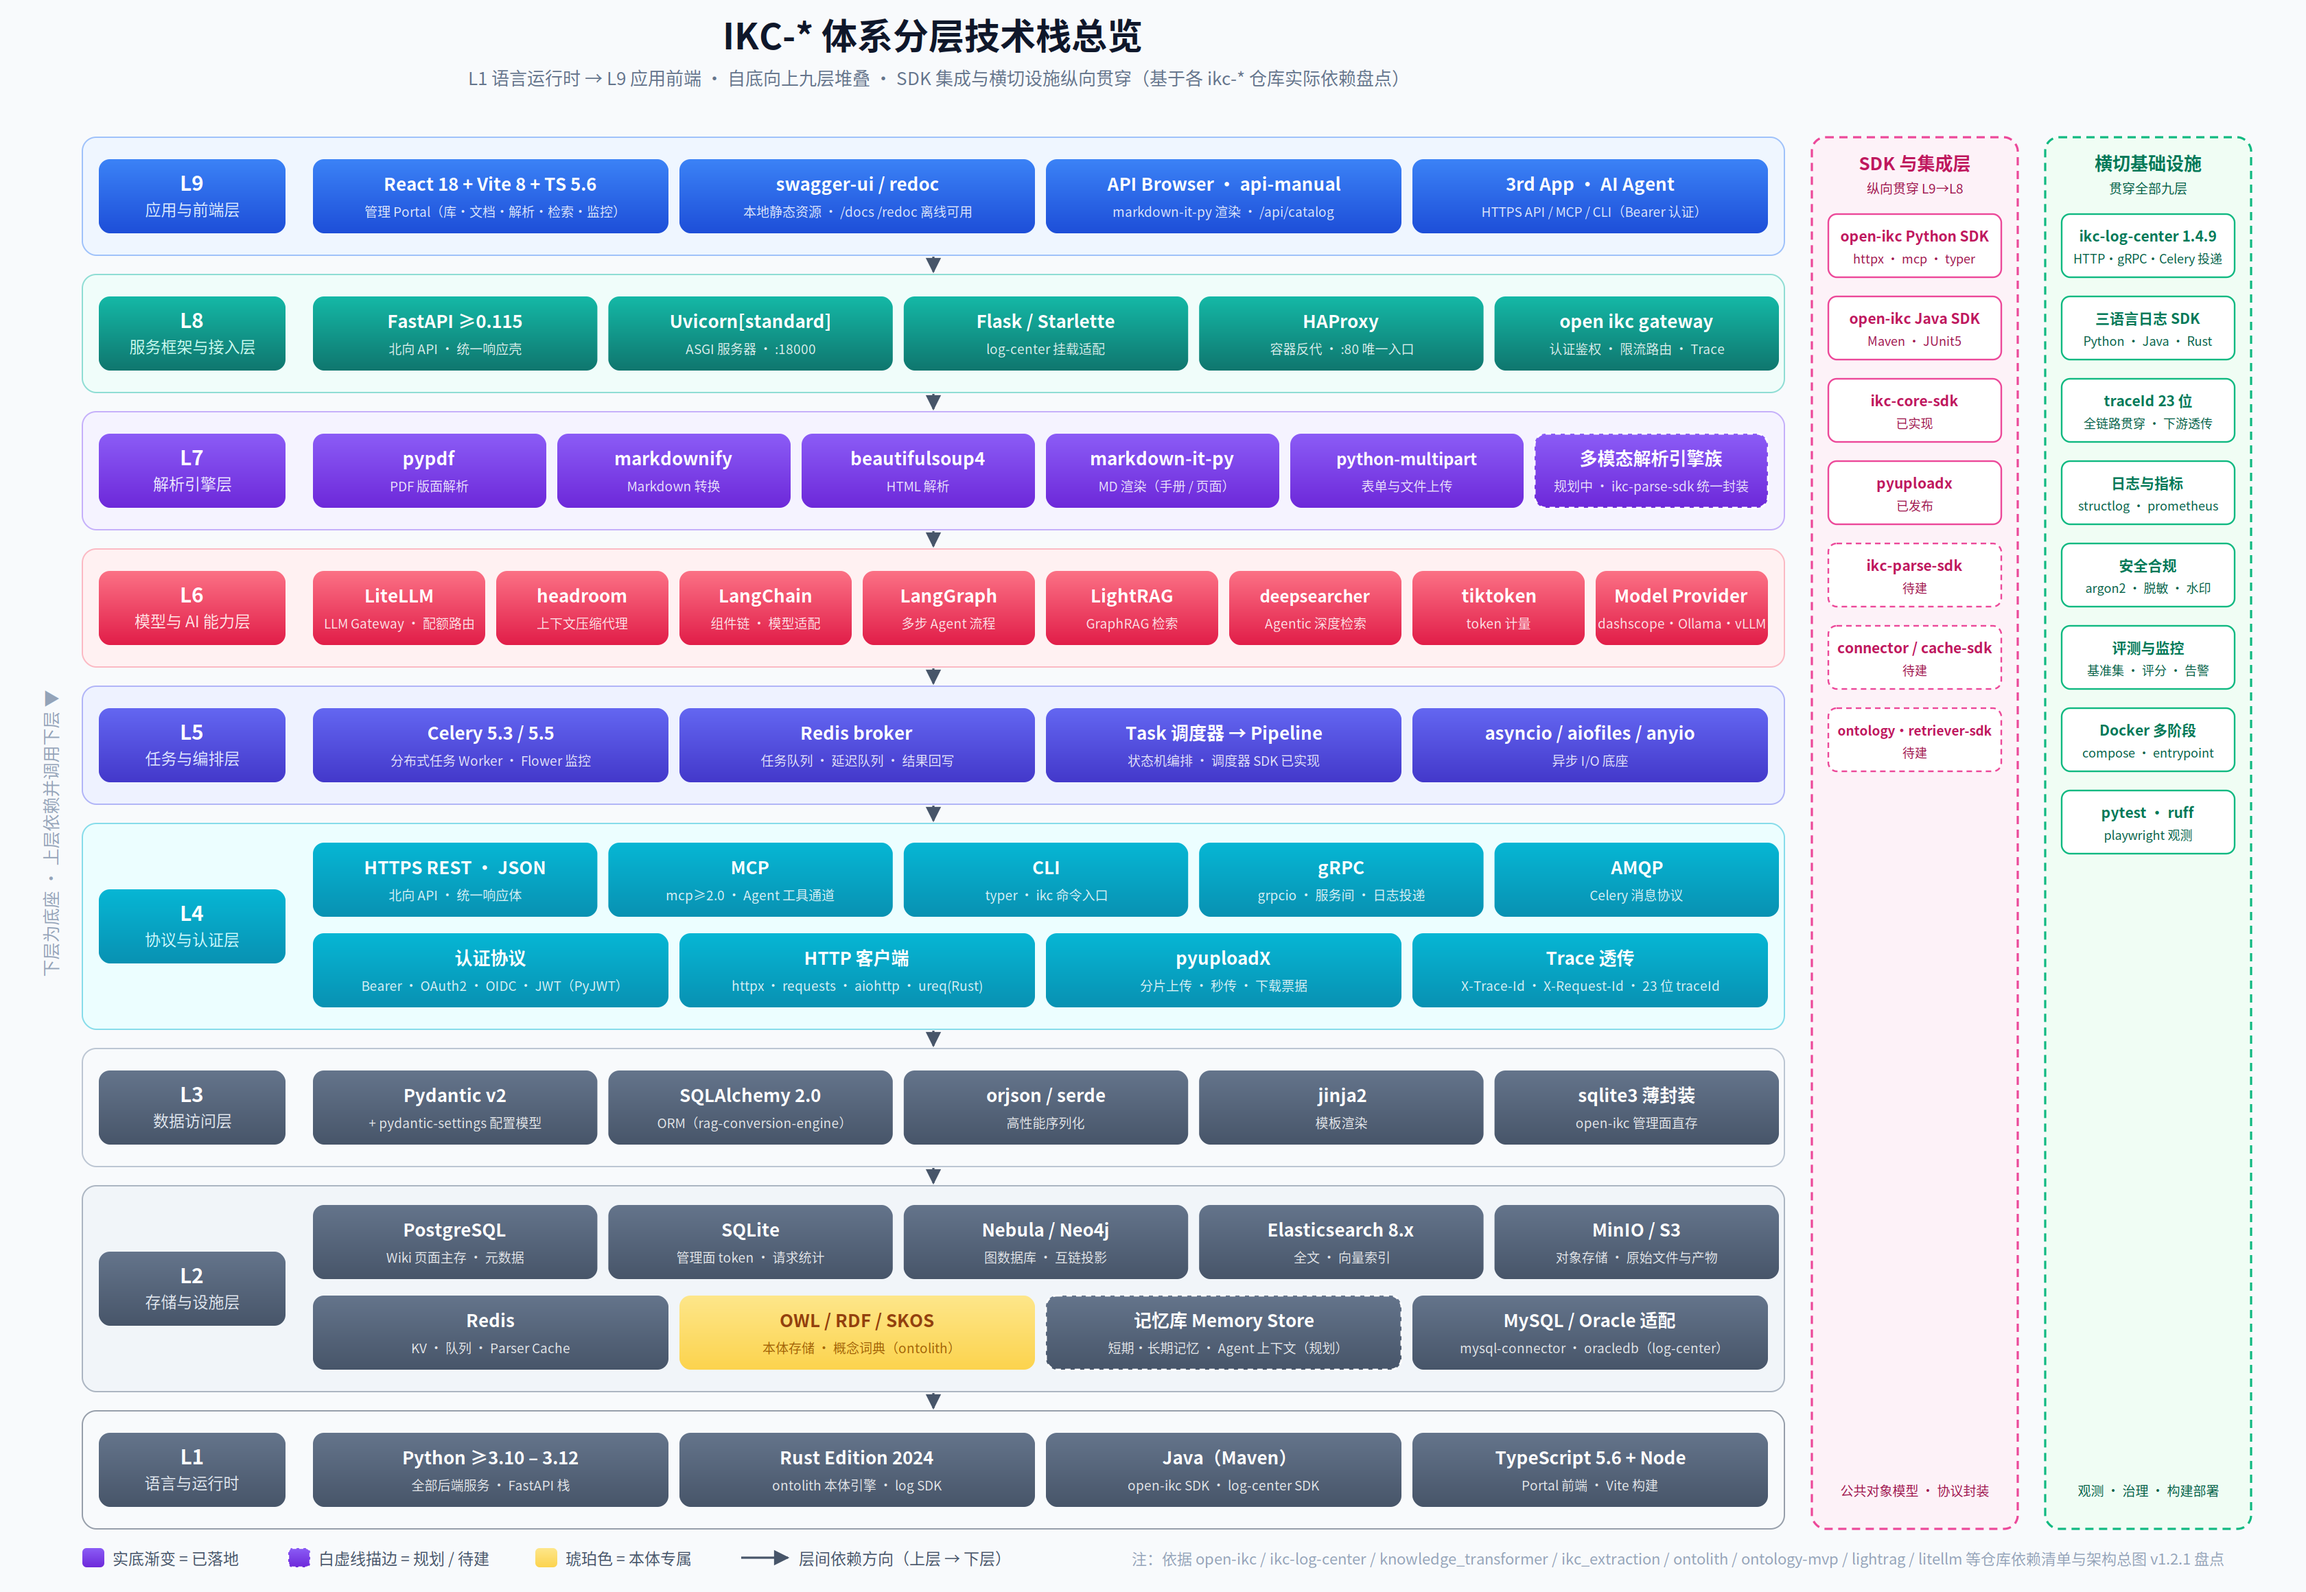
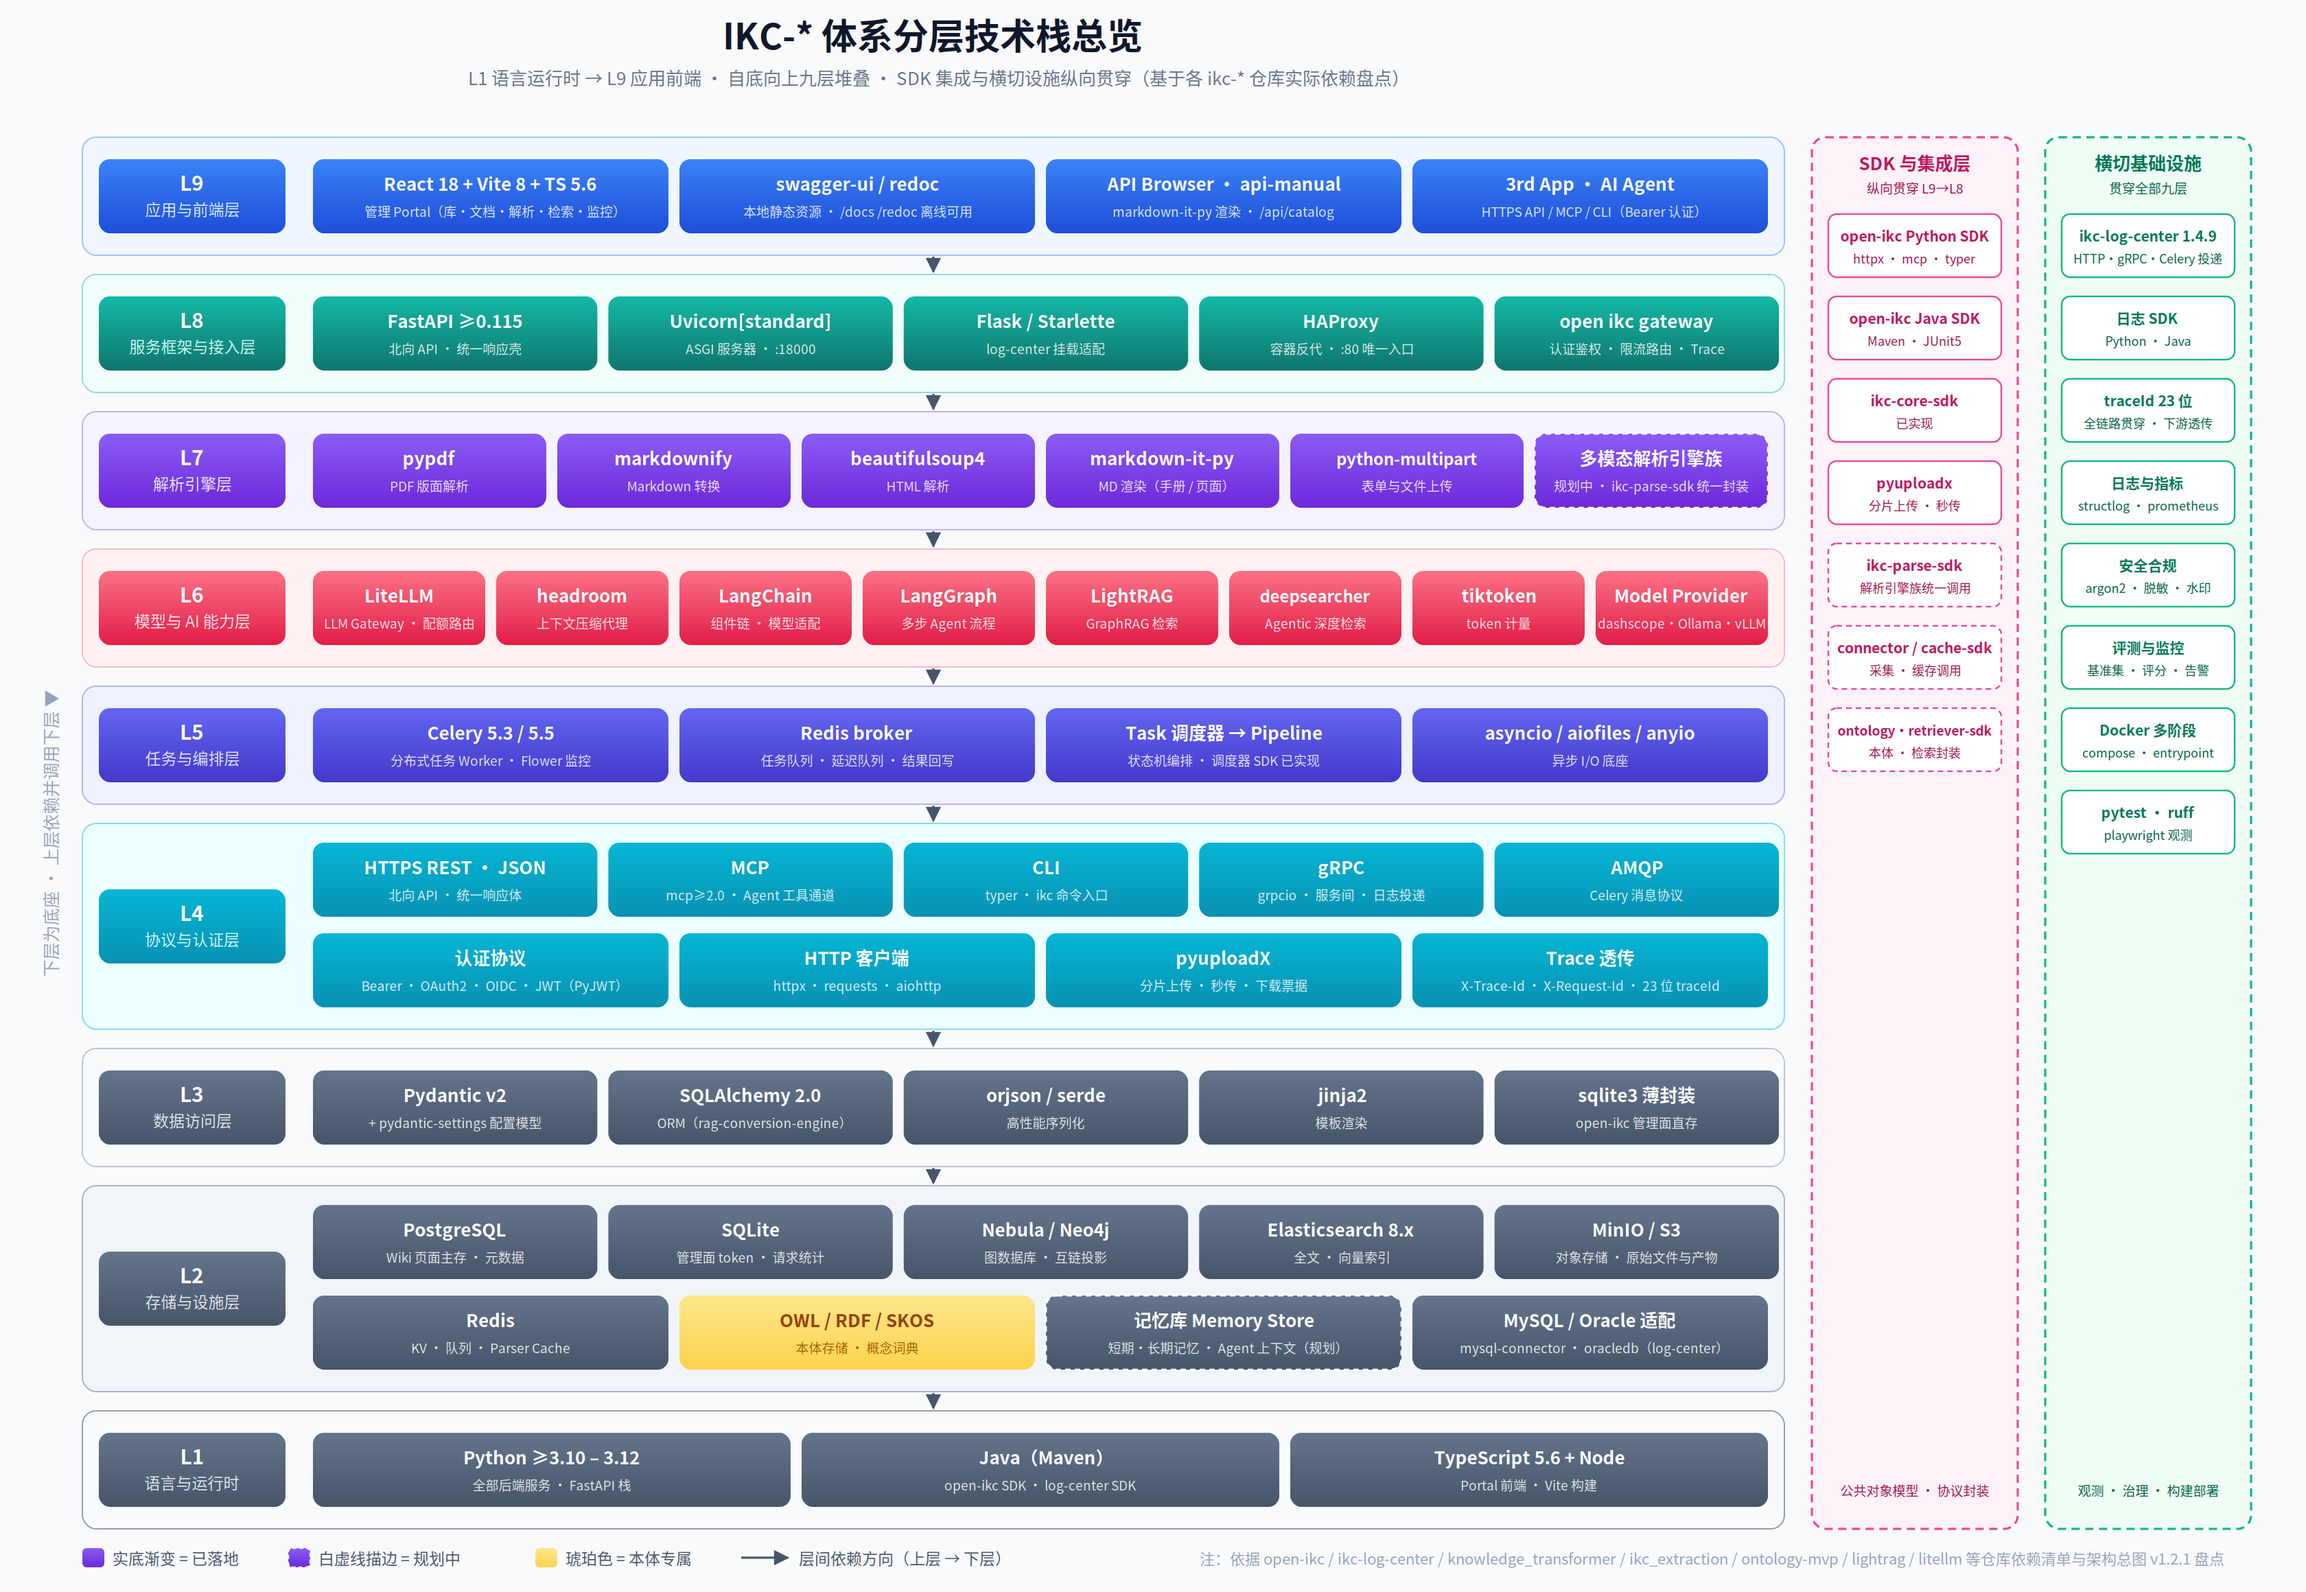
docs: 分层技术栈图去除 ontolith/Rust 内容并清理已发布/待建状态字眼

diff --git a/docs/worklog.md b/docs/worklog.md
@@ -1361,3 +1361,9 @@
 - 先盘点本机各 ikc-* 仓库实际依赖（open-ikc pyproject/portal package.json、ikc-log-center 含 Java/Rust SDK、knowledge_transformer、ikc_extraction、ontolith Rust 工作区、ontology-mvp、lightrag、litellm-headroom-gateway），在对话内输出分层技术栈清单后按用户要求成图。
 - 新增 `docs/images/分层技术栈总览图_v1.0.svg` + `.png`（1680×1160 / 3360×2320）：自底向上九层堆叠（L1 语言运行时 → L2 存储设施 → L3 数据访问 → L4 协议认证 → L5 任务编排 → L6 模型 AI → L7 解析引擎 → L8 服务框架 → L9 应用前端），层间向下箭头表依赖方向；右侧两竖条沿用架构总图语义：SDK 与集成层（粉虚线，已实现/待建区分实虚描边）与横切基础设施（绿虚线，log-center/traceId/观测/安全/构建/测试）。
 - 风格沿用架构总图 defs（同套 gBlue/gTeal/gIndigo/gViolet/gRose/gCyan/gSlate/gAmber 渐变与 arrow marker）；琥珀色仅用于 OWL/RDF/SKOS 本体存储 chip（本体专属语义）；白虚线描边=规划/待建（多模态解析引擎族、记忆库）；PNG 经临时副本注入 Noto Sans CJK SC 渲染；修正三处文字溢出（L7 规划 chip 副标题改「规划中 · ikc-parse-sdk 统一封装」、ontology·retriever-sdk 字号降至 9.5、structlog·prometheus 换为中文标题+英文副行）后二次渲染确认干净；仅新增配图，跳过 Claude 只读审查。
+
+### 任务：分层技术栈总览图去除 ontolith/Rust 与状态字眼（2026-10-16 续）
+
+- 用户反馈 ontolith 与 Rust 和 ikc 无关：删除 L1 Rust Edition 2024 chip（L1 四列改三列 w=348）、L4 HTTP 客户端副行去 ureq(Rust)、L2 本体存储副行去（ontolith）、绿条「三语言日志 SDK Python·Java·Rust」改「日志 SDK Python·Java」、脚注仓库清单去 ontolith；grep 确认图内 Rust/ontolith 零残留。
+- 去除「已发布」「待建」字眼：pyuploadx 副行改「分片上传 · 秒传」，ikc-parse-sdk/connector·cache-sdk/ontology·retriever-sdk 副行改职能描述（虚线描边仍表达规划中）；图例「白虚线描边 = 规划 / 待建」改「规划中」；「已实现」保留（用户未要求去）。
+- 二次渲染确认无溢出无残留；仅配图改动，跳过 Claude 只读审查。
